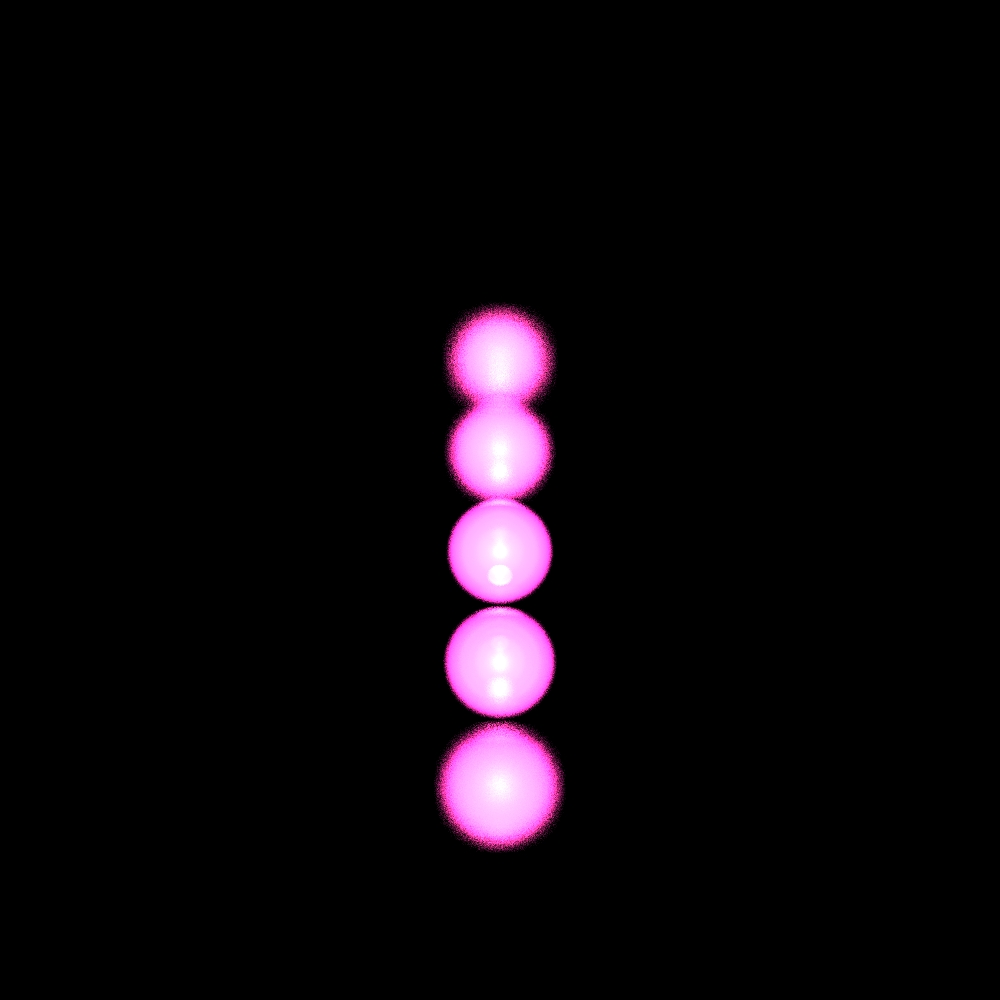
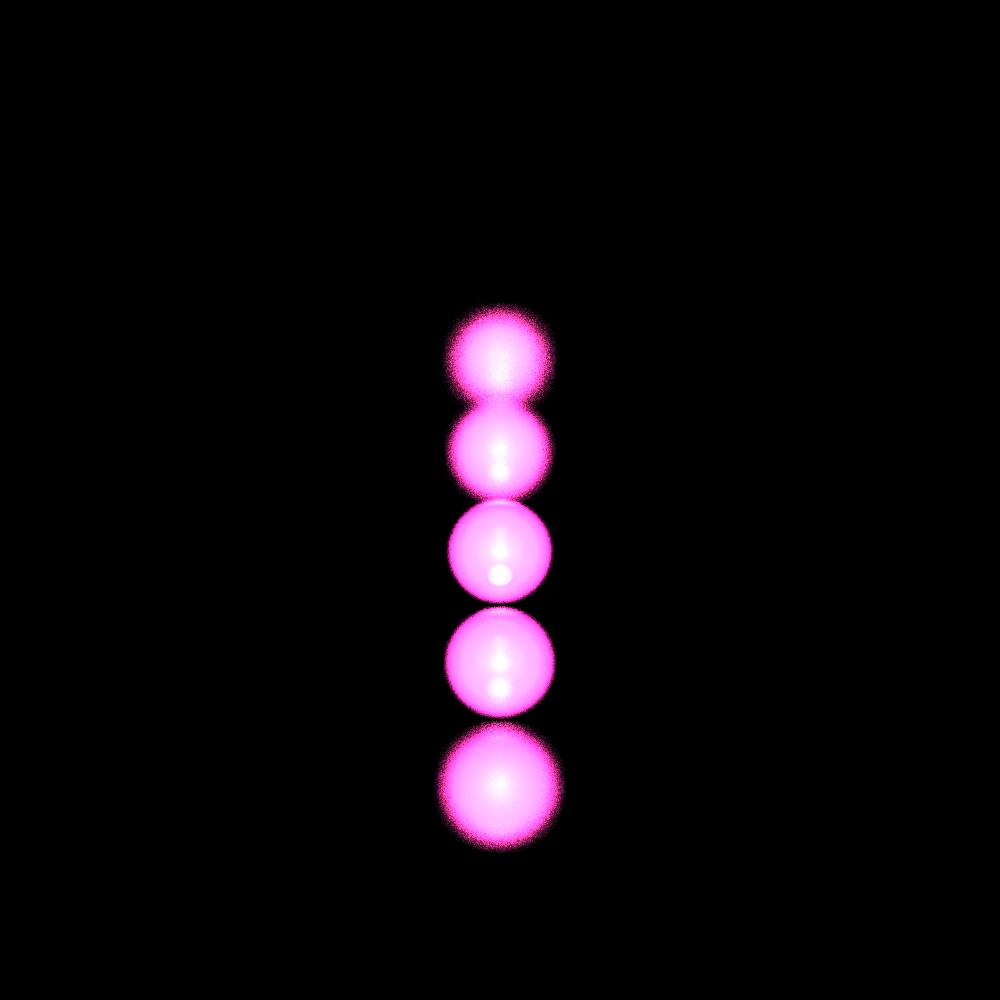
c

diff --git a/tar1_primitives/src/unittests/RenderTest.java b/tar1_primitives/src/unittests/RenderTest.java
@@ -720,4 +720,30 @@ public class RenderTest extends TestCase {
 		render.renderImage();
 		render.getImageWriter().writeToImage();
 	}
+	
+	/**
+	 * test for depth of field 243
+	 * @throws InterruptedException 
+	 */
+	public void testRenderImage25() throws InterruptedException {
+		Scene scene = new Scene("abc");
+		scene.setBackground(new Color());
+		scene.setAmbientLight(new AmbientLight(Color.BLACK, 1.0));
+		scene.setCamera(new Camera(new Point3D(0, 0, 1000), new Vector(0, 1, 0), new Vector(0, 0, -1), 1400, 100), 600);
+		Geometries geometries = new Geometries();
+		scene.addGeometries(geometries);
+		Sphere sphere1;
+		for (int c = -700, j = 255; c <= 700; c += 200, j -= 15) {
+			for (int a = -600, b = -1000, i = j - 100; b >= -2000; a += 100, b -= 200, i += 10) {
+				sphere1 = new Sphere(new Point3D(c, a, b), 100, new Color(j, i,i + 15),
+						new Material(1, 0.5, 40, 0.5, 0));
+				geometries.add(sphere1);
+			}
+		}
+		scene.setLights(new DirectionalLight(new Color(255, 100, 100), new Vector(0, 0, -1)));
+		ImageWriter imageWriter = new ImageWriter("depth of field 243", 500, 500, 500, 500);
+		Render render = new Render(scene, imageWriter);
+		render.renderImage();
+		render.getImageWriter().writeToImage();
+	}
 }

diff --git a/tar1_primitives/src/scene/SceneBuilder.java b/tar1_primitives/src/scene/SceneBuilder.java
@@ -79,7 +79,7 @@ public class SceneBuilder {
 	public Scene loadSceneFromFile(File _file) throws IOException, SAXException, ParserConfigurationException {
 		_sceneDesc.InitializeFromXMLstring(_file);
 		double imWid = 0.0, imhig = 0.0, screenDist = 0.0, k = 0.0, tmp = 0.0;
-
+		_filePath = _file.getName();
 		AmbientLight _ambColor;
 		Color C1 = new Color();
 		Color C2 = new Color();
